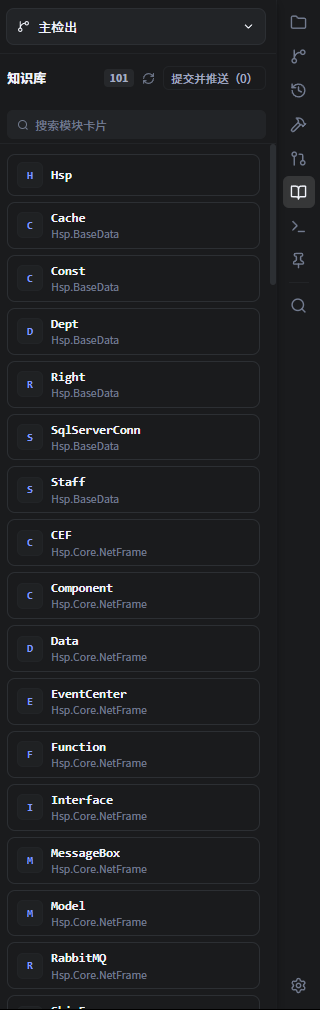
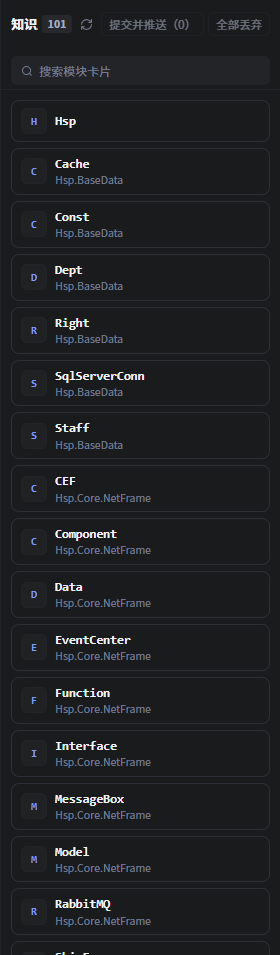
docs(knowledge): 帮助中心同步知识沉淀审核发布流程并补截图
- 操作手册第 2 节按「暂存 → 审核发布」重写对应图示：新增待确认面板（红点/已改）、
  卡片预览高亮新增条目、知识沉淀设置三张截图；第 5 节面板描述同步为「审核发布」
- 更新过时的知识库面板截图（补「全部丢弃」按钮）
- 修正图谱绑定提示语：去掉已退役的「自动回写」，改为「审核发布」

diff --git a/docs/operation-manual.html b/docs/operation-manual.html
@@ -484,6 +484,14 @@
         <li>面板顶部两个动作：<strong>提交并推送</strong>（确认发布，落库方式见 2.3）与<strong>全部丢弃</strong>（还原所有未发布的卡片改动）。</li>
       </ul>
       <p>面板同时展示「<strong>最近一次判定结果</strong>」只读明细（写了哪些、拒了哪些及逐条理由）。</p>
+      <figure class="shot-xs">
+        <img src="screenshots/module-guide/23-knowledge-pending-panel.png" alt="有待确认变更的知识库面板" />
+        <figcaption>有待发布内容时的「知识库」面板：待处理数量、卡片「已改」标记，以及「提交并推送 / 全部丢弃」</figcaption>
+      </figure>
+      <figure class="shot-md">
+        <img src="screenshots/module-guide/24-knowledge-preview-highlight.png" alt="卡片预览高亮新增条目" />
+        <figcaption>打开卡片：预览态高亮本批新增条目（浅底 + 左竖线）；切到编辑态即为可改的原始文本</figcaption>
+      </figure>
 
       <h3><span class="subnum">2.3</span>「知识沉淀」设置 = 发布方式选择器</h3>
       <p>「应用设置 → 技能库」中的「<strong>知识沉淀</strong>」开关只决定<strong>审核通过后如何落库</strong>，不再决定是否产出：</p>
@@ -491,6 +499,10 @@
         <li><strong>开启</strong>（默认）：点「提交并推送」即<strong>直接提交并推送图谱</strong>。</li>
         <li><strong>关闭</strong>：点「提交并推送」改为<strong>创建云效审核议题</strong>（标题 <code>【知识沉淀待审核】&lt;图谱&gt; 图谱有新条目</code>），交由人工审核后更新图谱；创建后本地未发布改动会被丢弃（内容已随议题留痕）。需在应用设置中配置云效令牌 / 组织。</li>
       </ul>
+      <figure class="shot-md">
+        <img src="screenshots/module-guide/25-knowledge-setting.png" alt="知识沉淀设置" />
+        <figcaption>应用设置 → 技能库 →「知识沉淀」：开启=确认发布即提交推送图谱，关闭=改走云效审批</figcaption>
+      </figure>
       <div class="callout">
         <span class="label">发布前同步</span>
         Nezha 会先同步远端（fetch + 落后则 <code>--ff-only</code> 拉取）；若本地已分叉则<strong>拒绝发布</strong>并提示，不硬写。
@@ -653,14 +665,15 @@
       </ul>
       <figure class="shot-xs">
         <img src="screenshots/module-guide/04-knowledge-panel.png" alt="知识库面板" />
-        <figcaption>「知识库」面板：卡片数量、搜索与「提交并推送」</figcaption>
+        <figcaption>「知识库」面板：卡片数量、搜索、「提交并推送」与「全部丢弃」</figcaption>
       </figure>
 
-      <h3><span class="subnum">5.2</span>面板：浏览、编辑与推送</h3>
+      <h3><span class="subnum">5.2</span>面板：浏览、编辑与审核发布</h3>
       <ul>
-        <li>顶部显示卡片数量与「<strong>提交并推送（N）</strong>」；有未提交改动时卡片带「<strong>已改</strong>」标记。</li>
+        <li>顶部显示卡片数量与「<strong>提交并推送（N）</strong>」「<strong>全部丢弃</strong>」；有未提交改动时卡片带「<strong>已改</strong>」标记，工具条图标同时显示<strong>红点</strong>。</li>
         <li>「<strong>搜索模块卡片</strong>」按模块名过滤。</li>
-        <li>点某张卡片会在主窗口以 Markdown 页签打开，可直接编辑（自动保存），也可提交推送。</li>
+        <li>点某张卡片会在主窗口以 Markdown 页签打开，可直接编辑（自动保存）；<strong>预览态高亮本批新增条目</strong>，编辑态为可改的原始文本。</li>
+        <li>沉淀写入、人工编辑、审核发布都在此面板完成（详见第 2 节）：沉淀候选经质量门后仅<strong>暂存</strong>到卡片，由你确认后再「提交并推送」。</li>
         <li>未绑定图谱时提示「当前项目未绑定知识库，请到项目设置中配置。」</li>
       </ul>
 

diff --git a/src/i18n.tsx b/src/i18n.tsx
@@ -319,7 +319,7 @@ const translations: Record<AppLanguage, Record<string, string>> = {
     "settings.knowledge": "Knowledge",
     "settings.knowledgeTarget": "Knowledge Graph",
     "settings.knowledgeTargetHint":
-      "Used by discussion context, sedimentation, quality gate, and auto write-back. Leave empty to disable it.",
+      "Discussion context, sedimentation, the quality gate, and review/publish all use this target. Leave empty to disable it.",
     "settings.knowledgeTargetNone": "Not configured",
     "settings.knowledgeBinding": "Graph Binding",
     "settings.knowledgeCreate": "Create Graph",
@@ -1450,7 +1450,7 @@ const translations: Record<AppLanguage, Record<string, string>> = {
     "settings.knowledge": "知识库",
     "settings.knowledgeTarget": "知识图谱",
     "settings.knowledgeTargetHint":
-      "讨论上下文、知识沉淀、质量门和自动回写都使用该目标。留空表示不启用。",
+      "讨论上下文、知识沉淀、质量门与审核发布都使用该目标。留空表示不启用。",
     "settings.knowledgeTargetNone": "未配置",
     "settings.knowledgeBinding": "图谱绑定",
     "settings.knowledgeCreate": "新建图谱",

diff --git a/docs/operation-manual.md b/docs/operation-manual.md
@@ -230,6 +230,12 @@
 
 > 面板同时展示「**最近一次判定结果**」只读明细（写了哪些、拒了哪些及逐条理由）。
 
+![有待确认变更的知识库面板](screenshots/module-guide/23-knowledge-pending-panel.png)
+*有待发布内容时的「知识库」面板：待处理数量、卡片「已改」标记，以及「提交并推送 / 全部丢弃」*
+
+![卡片预览高亮新增条目](screenshots/module-guide/24-knowledge-preview-highlight.png)
+*打开卡片：预览态高亮本批新增条目（浅底 + 左竖线）；切到编辑态即为可改的原始文本*
+
 ### 2.3 「知识沉淀」设置 = 发布方式选择器
 
 「应用设置 → 技能库」中的「**知识沉淀**」开关只决定**审核通过后如何落库**，不再决定是否产出：
@@ -238,6 +244,9 @@
 - **关闭**：点「提交并推送」改为**创建云效审核议题**（标题 `【知识沉淀待审核】<图谱> 图谱有新条目`），
   交由人工审核后更新图谱；创建后本地未发布改动会被丢弃（内容已随议题留痕）。
   需在应用设置中配置云效令牌 / 组织。
+
+![知识沉淀设置](screenshots/module-guide/25-knowledge-setting.png)
+*应用设置 → 技能库 →「知识沉淀」：开启=确认发布即提交推送图谱，关闭=改走云效审批*
 
 > 发布前 Nezha 会先同步远端（fetch + 落后则 `--ff-only` 拉取）；若本地已分叉则**拒绝发布**并提示，不硬写。
 
@@ -391,20 +400,21 @@ Nezha 用**技能仓库**统一管理技能：一个来源（本地目录或 git
 
 ![知识库面板](screenshots/module-guide/04-knowledge-panel.png)
 
-### 5.2 面板：浏览、编辑与推送
+### 5.2 面板：浏览、编辑与审核发布
 
 右侧「知识库」面板展示当前项目绑定图谱的模块卡片：
 
-- 顶部显示卡片数量与「**提交并推送（N）**」；有未提交改动时卡片带「**已改**」标记。
+- 顶部显示卡片数量与「**提交并推送（N）**」「**全部丢弃**」；有未提交改动时卡片带「**已改**」标记，工具条图标同时显示**红点**。
 - 「**搜索模块卡片**」按模块名过滤。
-- 点某张卡片会在主窗口以 Markdown 页签打开，可直接编辑（自动保存），也可提交推送。
+- 点某张卡片会在主窗口以 Markdown 页签打开，可直接编辑（自动保存）；**预览态高亮本批新增条目**，编辑态为可改的原始文本。
+- 沉淀写入、人工编辑、审核发布都在此面板完成（详见第 2 节）：沉淀候选经质量门后仅**暂存**到卡片，由你确认后再「提交并推送」。
 - 未绑定图谱时提示「当前项目未绑定知识库，请到项目设置中配置。」
 
 ### 5.3 设置：图谱绑定与维护
 
 项目「设置 → 知识库」：
 
-- **图谱绑定**：下拉选择要绑定的知识图谱（或「未配置」表示不启用）。提示语说明「讨论上下文、知识沉淀、质量门和自动回写都使用该目标」。
+- **图谱绑定**：下拉选择要绑定的知识图谱（或「未配置」表示不启用）。提示语说明「讨论上下文、知识沉淀、质量门与审核发布都使用该目标」。
 - 已绑定图谱显示状态（如「**已就绪 · <适配器>**」），并提供两个按钮：
   - 「**扫描项目**」：跑 `bootstrap.py --mode scan` 依据项目代码重建 `index.md` / `graph.json`，**已有模块卡片不会被覆盖**；
   - 「**管理模块卡片（N）**」：进入卡片管理模式，可**新建 / 编辑 / 重命名 / 删除**卡片，并「**提交并推送（N）**」。
